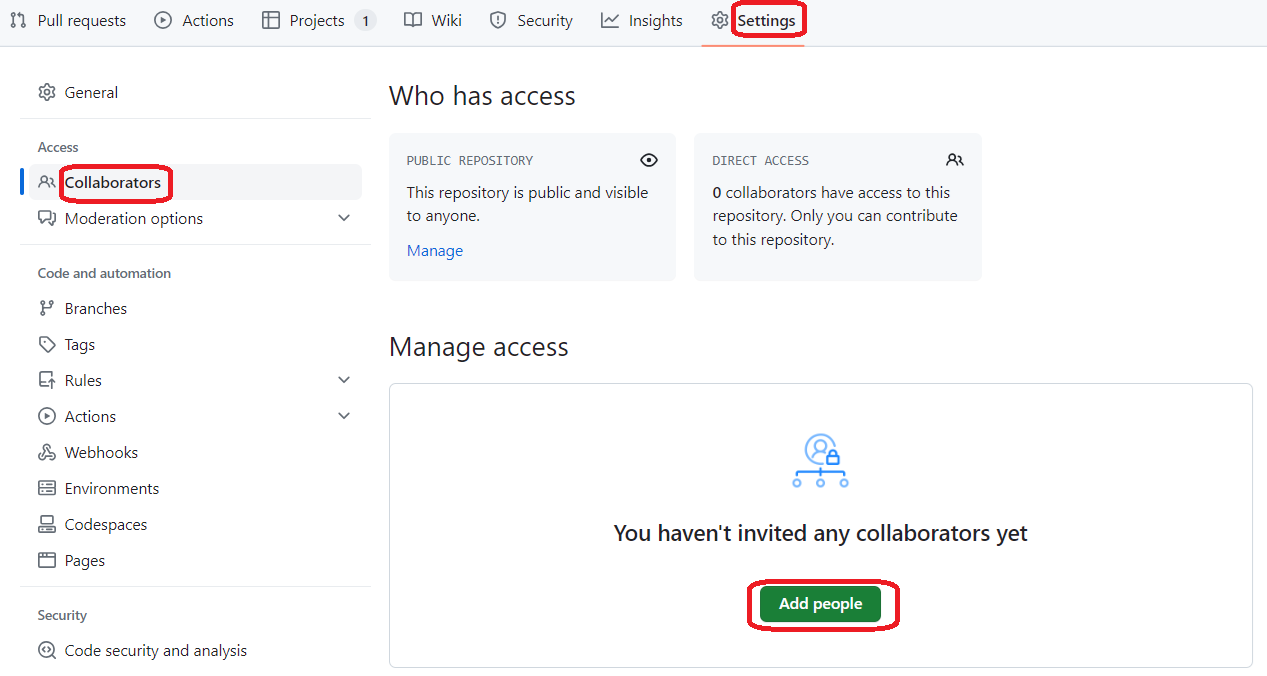
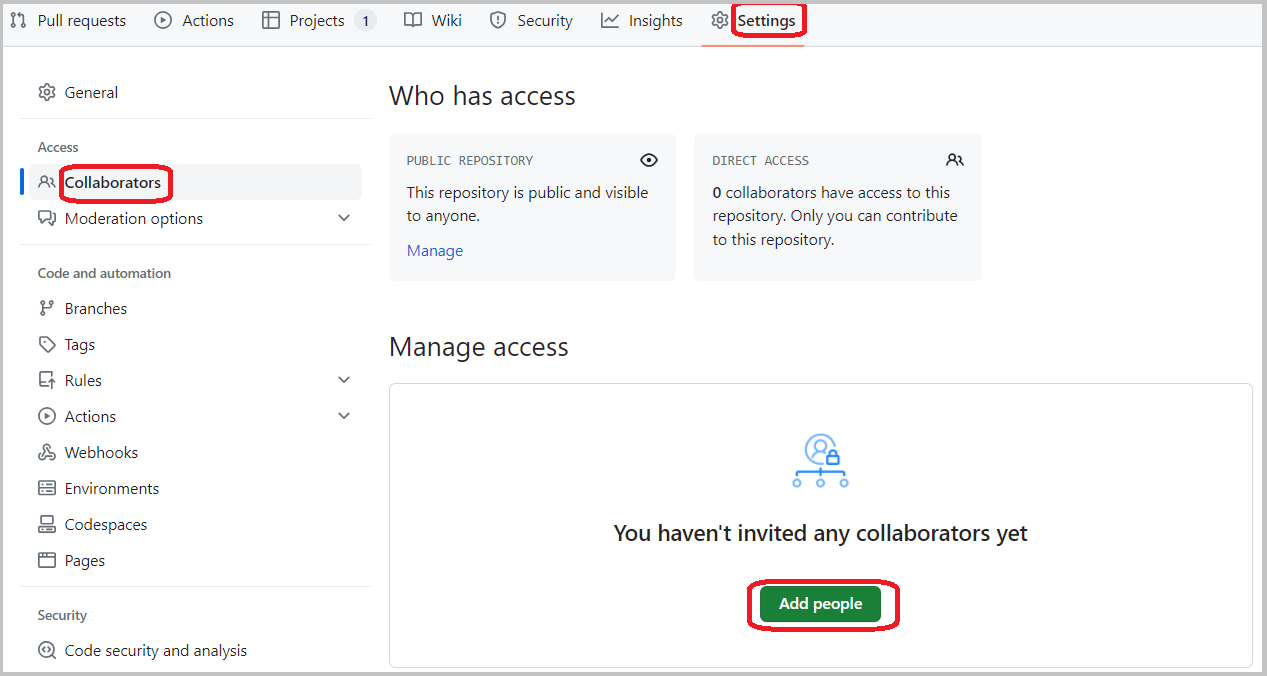
issue#1 - FIX README.md

Changed region(s): [[0.0, 0.0, 1.0, 1.0]]

diff --git a/README.md b/README.md
@@ -76,7 +76,7 @@ Just go to https://github.com/ and then create your Github account.
 
 In the preliminary steps you just have to start working with git following this steps:
 
-* **Step 4: Creating a Github repository.**
+* **Step 4: Creating a Github repository and adding collaborators.**
 
 Log in with your Github account and create a new repository.
 
